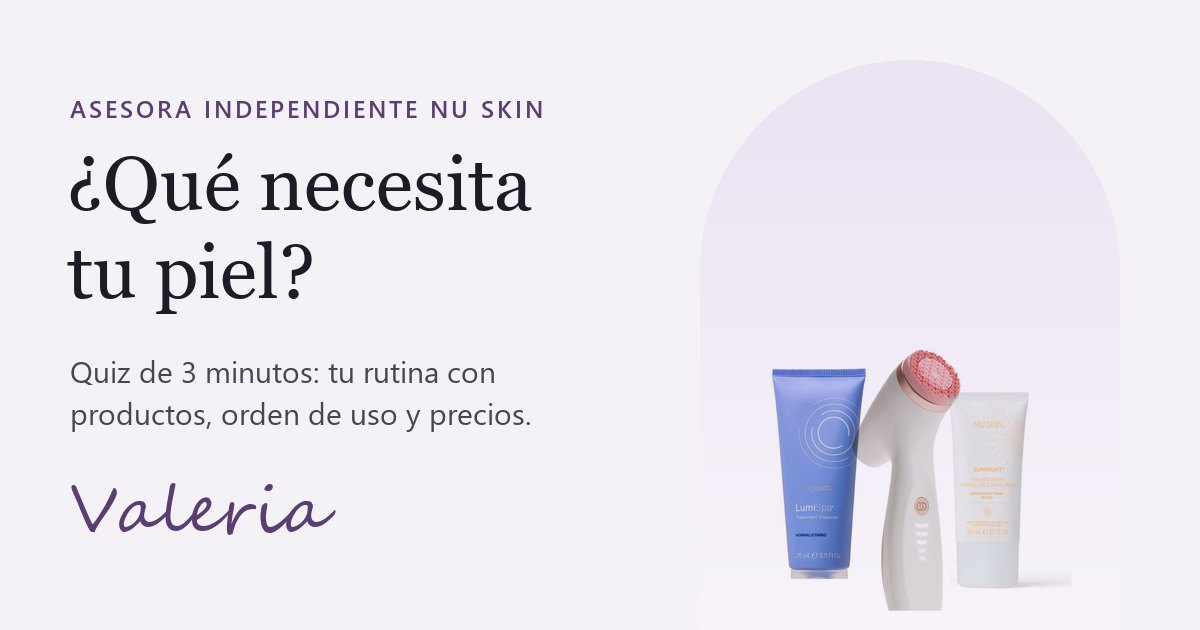
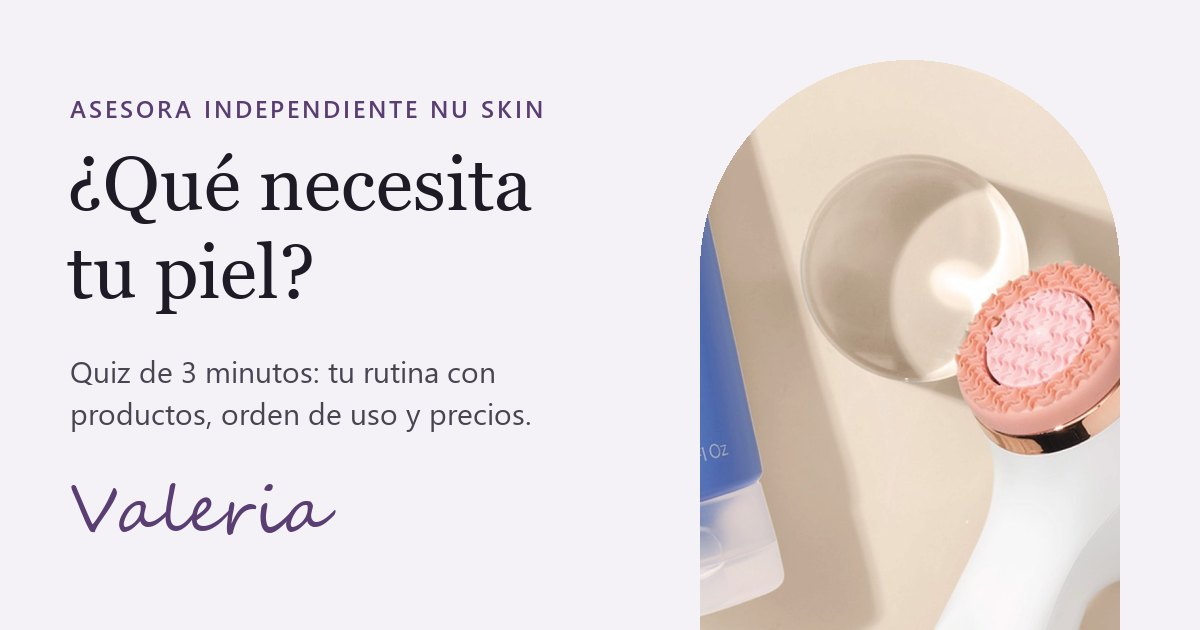
Bienvenida con foto real de estudio (LumiSpa rosa + gel azul) en lugar de recortes

Changed region(s): [[0.5858, 0.0905, 0.9558, 1.0]]

diff --git a/index.html b/index.html
@@ -112,6 +112,8 @@ html{scroll-behavior:smooth}
 .hero-art .p1{left:9%;width:40%;bottom:9%}
 .hero-art .p2{left:30%;width:44%;bottom:5%;z-index:2}
 .hero-art .p3{right:8%;width:38%;bottom:10%}
+.hero-art .hero-photo{position:absolute;inset:0;width:100%;height:100%;object-fit:cover;object-position:40% 50%;
+  border-radius:999px 999px 28px 28px;box-shadow:0 22px 44px -26px rgba(31,27,38,.5)}
 @media(max-width:820px){.hero-art{max-width:290px}.hero h1{font-size:clamp(38px,11vw,54px)}}
 
 /* ---------- quiz ---------- */
@@ -262,11 +264,8 @@ footer p{margin:0 0 8px;max-width:76ch}
       </div>
       <p class="promo"><span>%</span> Haz tu compra y puedes llevarte hasta un 10% de descuento ahora. <a href="https://wa.me/525560556074?text=Hola%20Valeria%2C%20%C2%BFc%C3%B3mo%20aplico%20el%20descuento%20de%20hasta%2010%25%3F" target="_blank" rel="noopener">Pregúntame cómo ↗</a></p>
     </div>
-    <div class="hero-art" aria-hidden="true">
-      <div class="arch"></div>
-      <img class="p1" src="img/lumispa-gel.jpg" alt="">
-      <img class="p2" src="img/lumispa-rosa.jpg" alt="">
-      <img class="p3" src="img/sunright.jpg" alt="">
+    <div class="hero-art">
+      <img class="hero-photo" src="img/entrada-lumispa.jpg" alt="Sistema LumiSpa iO rosa con su gel limpiador azul" width="1138" height="770">
     </div>
   </section>
 
